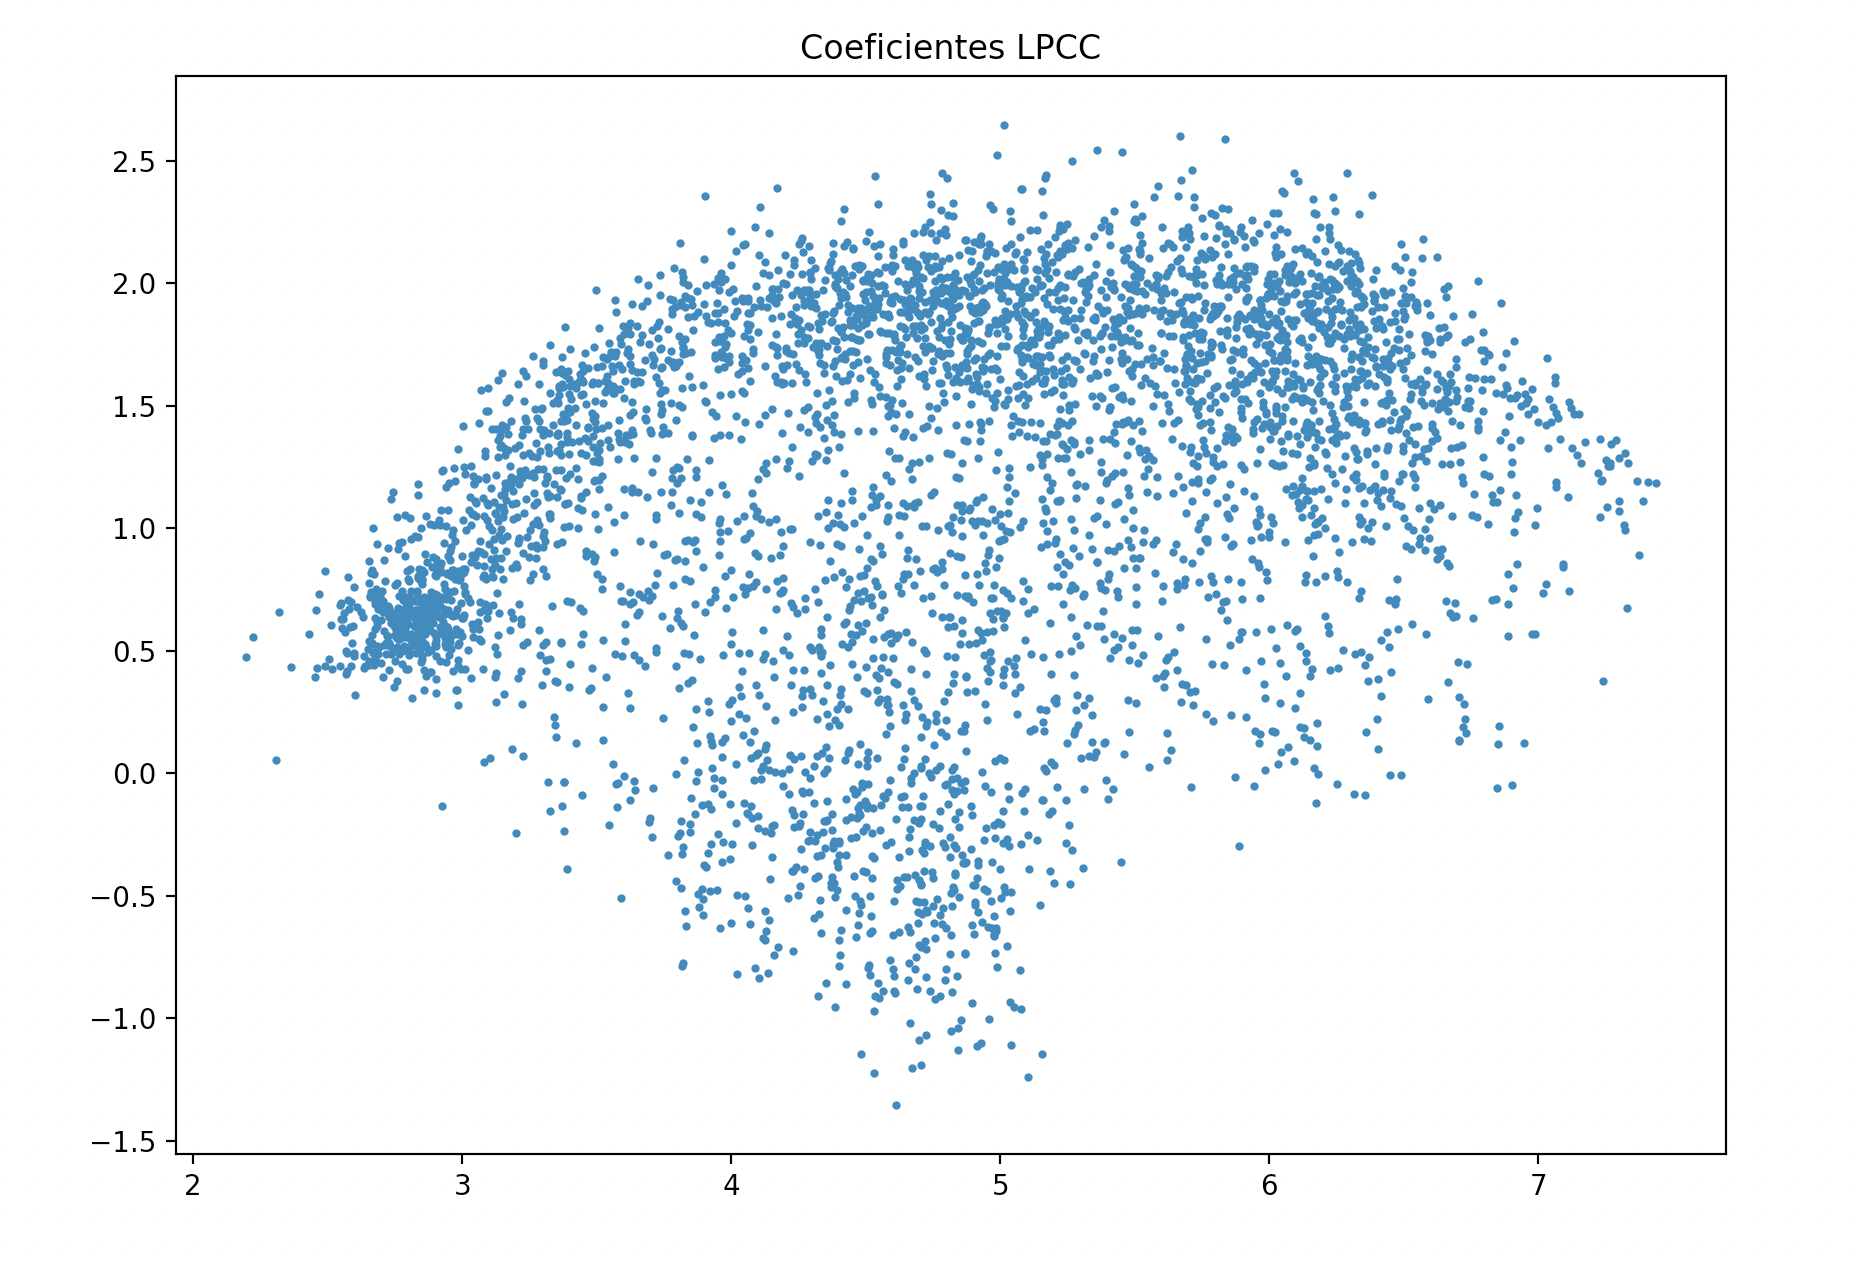
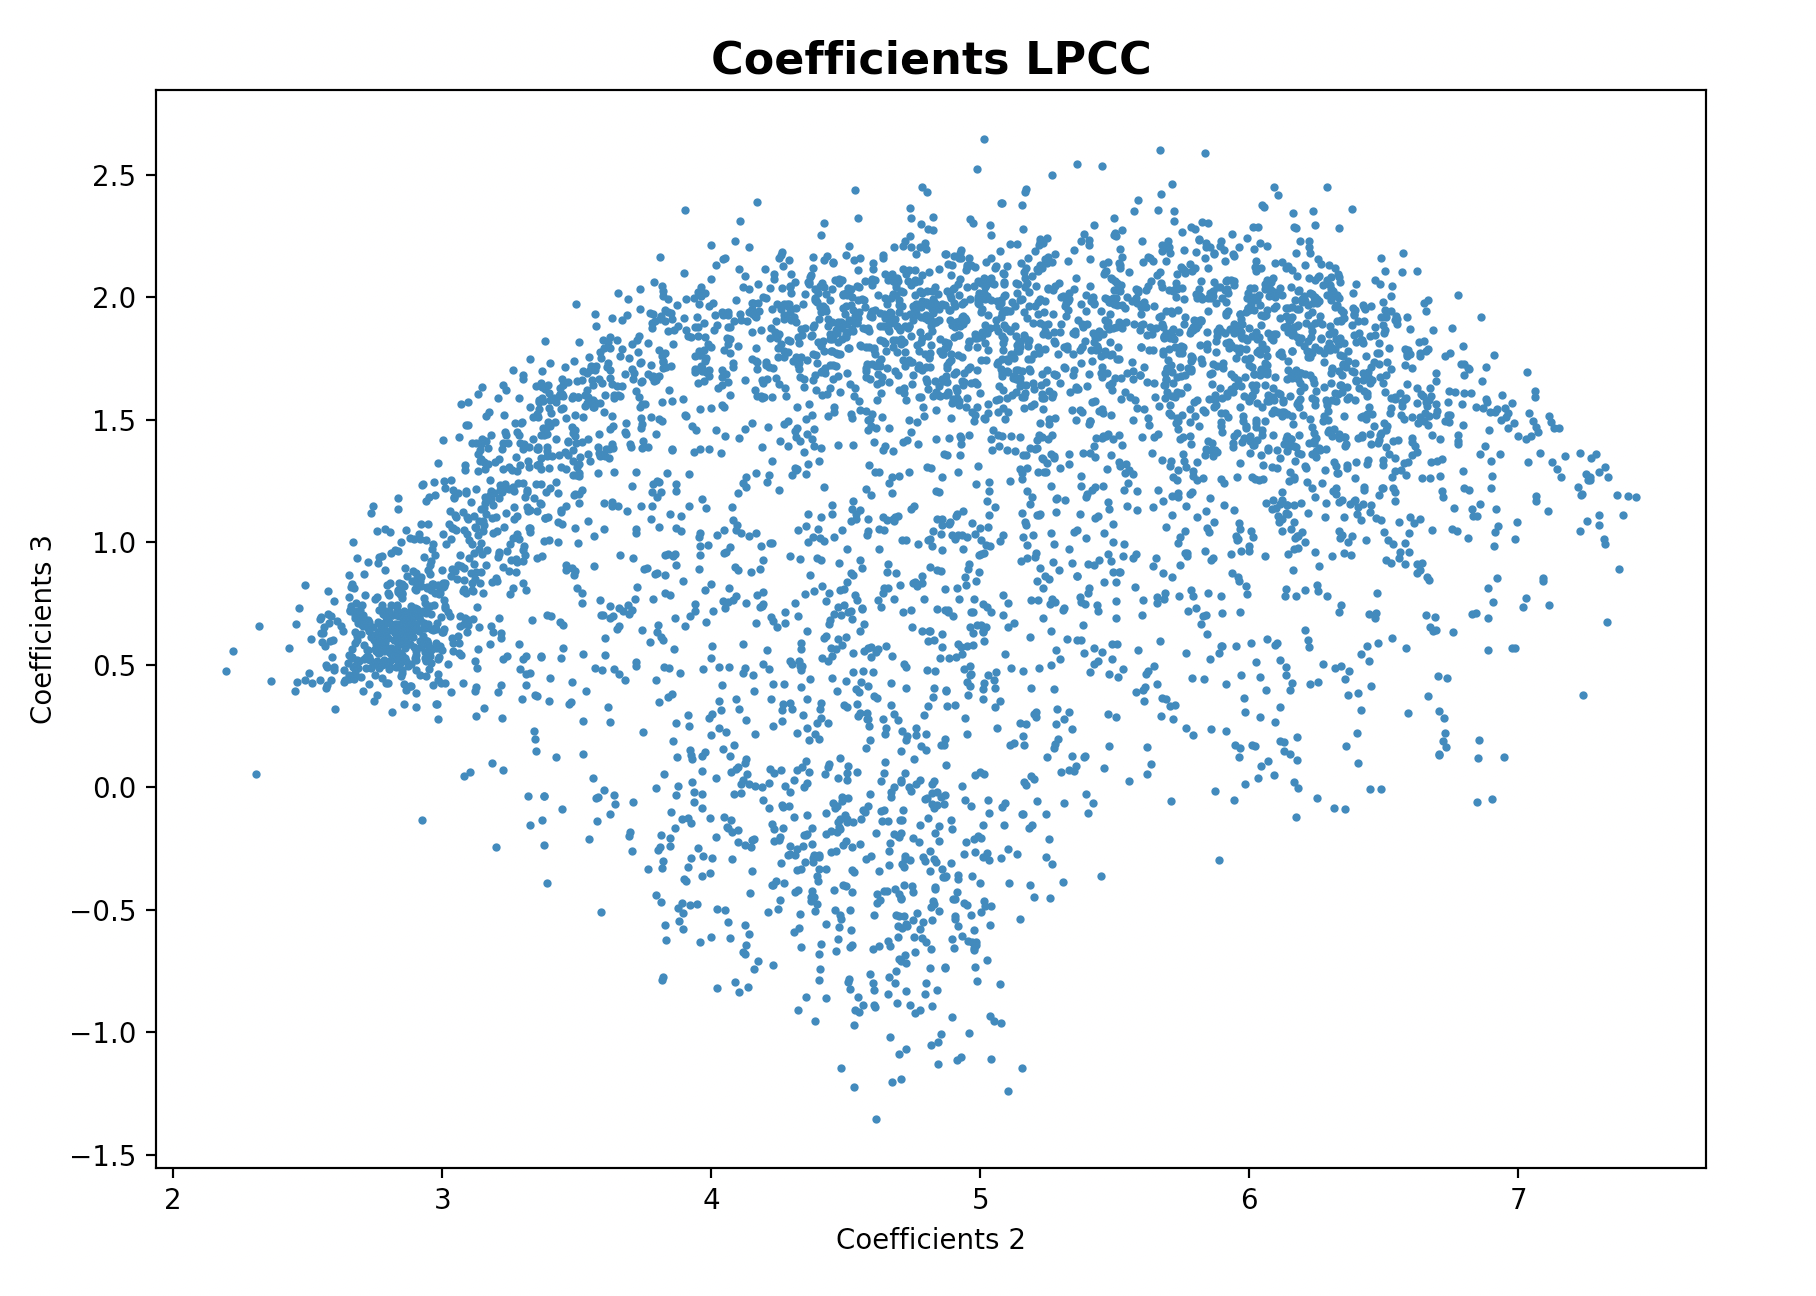
actualizacion readme

diff --git a/coefficients.py b/coefficients.py
@@ -1,0 +1,29 @@
+import matplotlib.pyplot as plt
+import matplotlib.cbook as cbook
+import numpy as np
+
+
+lp = np.loadtxt('lp_2_3.txt')
+lpcc = np.loadtxt('lpcc_2_3.txt')
+mfcc = np.loadtxt('mfcc_2_3.txt')
+
+fig, (plot_lp,plot_lpcc,plot_mfcc) = plt.subplots(3)
+fig.suptitle("Coefficients 2 & 3 of LP, LPCC y MFCC", fontsize=16, fontweight="bold")
+
+plot_lp.plot(lp[:, 0], lp[:, 1],'.')
+plot_lpcc.plot(lpcc[:, 0], lpcc[:, 1],'.')
+plot_mfcc.plot(mfcc[:, 0], mfcc[:, 1],'.')
+
+plot_lp.set_title('LP')
+plot_lp.set(xlabel='Coefficients 2', ylabel='Coefficients 3')
+plot_lpcc.set_title('LPCC')
+plot_lpcc.set(xlabel='Coefficients 2', ylabel='Coefficients 3')
+plot_mfcc.set_title('MFCC')
+plot_mfcc.set(xlabel='Coefficients 2', ylabel='Coefficients 3')
+
+plot_lp.grid()
+plot_lpcc.grid()
+plot_mfcc.grid()
+
+plt.subplots_adjust(hspace=1)
+plt.show()

diff --git a/mfcc_plot.py b/mfcc_plot.py
@@ -14,8 +14,11 @@ for linea in lineas:
 
 fdatos.close()
 
-
 plt.figure(figsize=(10,7))
 plt.plot(x_datos,y_datos,'o',markersize=2)
-plt.title('Coeficientes MFCC')
+
+plt.title('Coefficients MFCC', fontsize=16, fontweight="bold")
+plt.xlabel('Coefficients 2')
+plt.ylabel('Coefficients 3')
+
 plt.show()

diff --git a/lpcc_plot.py b/lpcc_plot.py
@@ -17,5 +17,9 @@ fdatos.close()
 
 plt.figure(figsize=(10,7))
 plt.plot(x_datos,y_datos,'o',markersize=2)
-plt.title('Coeficientes LPCC')
+
+plt.title('Coefficients LPCC', fontsize=16, fontweight="bold")
+plt.xlabel('Coefficients 2')
+plt.ylabel('Coefficients 3')
+
 plt.show()

diff --git a/lp_plot.py b/lp_plot.py
@@ -17,5 +17,9 @@ fdatos.close()
 
 plt.figure(figsize=(10,7))
 plt.plot(x_datos,y_datos,'o',markersize=2)
-plt.title('Coeficientes LPC')
+
+plt.title('Coefficients LPC', fontsize=16, fontweight="bold")
+plt.xlabel('Coefficients 2')
+plt.ylabel('Coefficients 3')
+
 plt.show()

diff --git a/README.md b/README.md
@@ -74,7 +74,7 @@ ejercicios indicados.
 - Escriba el *pipeline* principal usado para calcular los coeficientes cepstrales de predicción lineal
   (LPCC) en su fichero <code>scripts/wav2lpcc.sh</code>:
 
-  - En el caso del LPC2C transformamos los LPC a coeficientes cepstrales. 
+    > En el caso del LPC2C transformamos los LPC a coeficientes cepstrales. 
 
   ```sh
        # Main command for feature extration:
@@ -84,7 +84,7 @@ ejercicios indicados.
 - Escriba el *pipeline* principal usado para calcular los coeficientes cepstrales en escala Mel (MFCC) en su
   fichero <code>scripts/wav2mfcc.sh</code>:
 
-  - En este caso analizamos el MFCC. 
+    > En este caso analizamos el MFCC. 
 
   ```sh
        # Main command for feature extration:
@@ -95,6 +95,19 @@ ejercicios indicados.
 
 - Inserte una imagen mostrando la dependencia entre los coeficientes 2 y 3 de las tres parametrizaciones
   para todas las señales de un locutor.
+
+  > Primero, vamos a representar las dependencias de las tres parametrizaciones por separado para observar las dependencias más detalladamente:
+
+  <img src="img/lp_coef.png" width="640" align="center">
+
+  <img src="img/lpcc_coef.png" width="640" align="center">
+
+  <img src="img/mfcc_coef.png" width="640" align="center">
+
+  > A continuación, representamos las dependencias de las tres parametrizaciones conjuntamente para ver las diferencias:
+
+  <img src="img/coef.png" width="640" align="center">
+
   
   + Indique **todas** las órdenes necesarias para obtener las gráficas a partir de las señales 
     parametrizadas.
